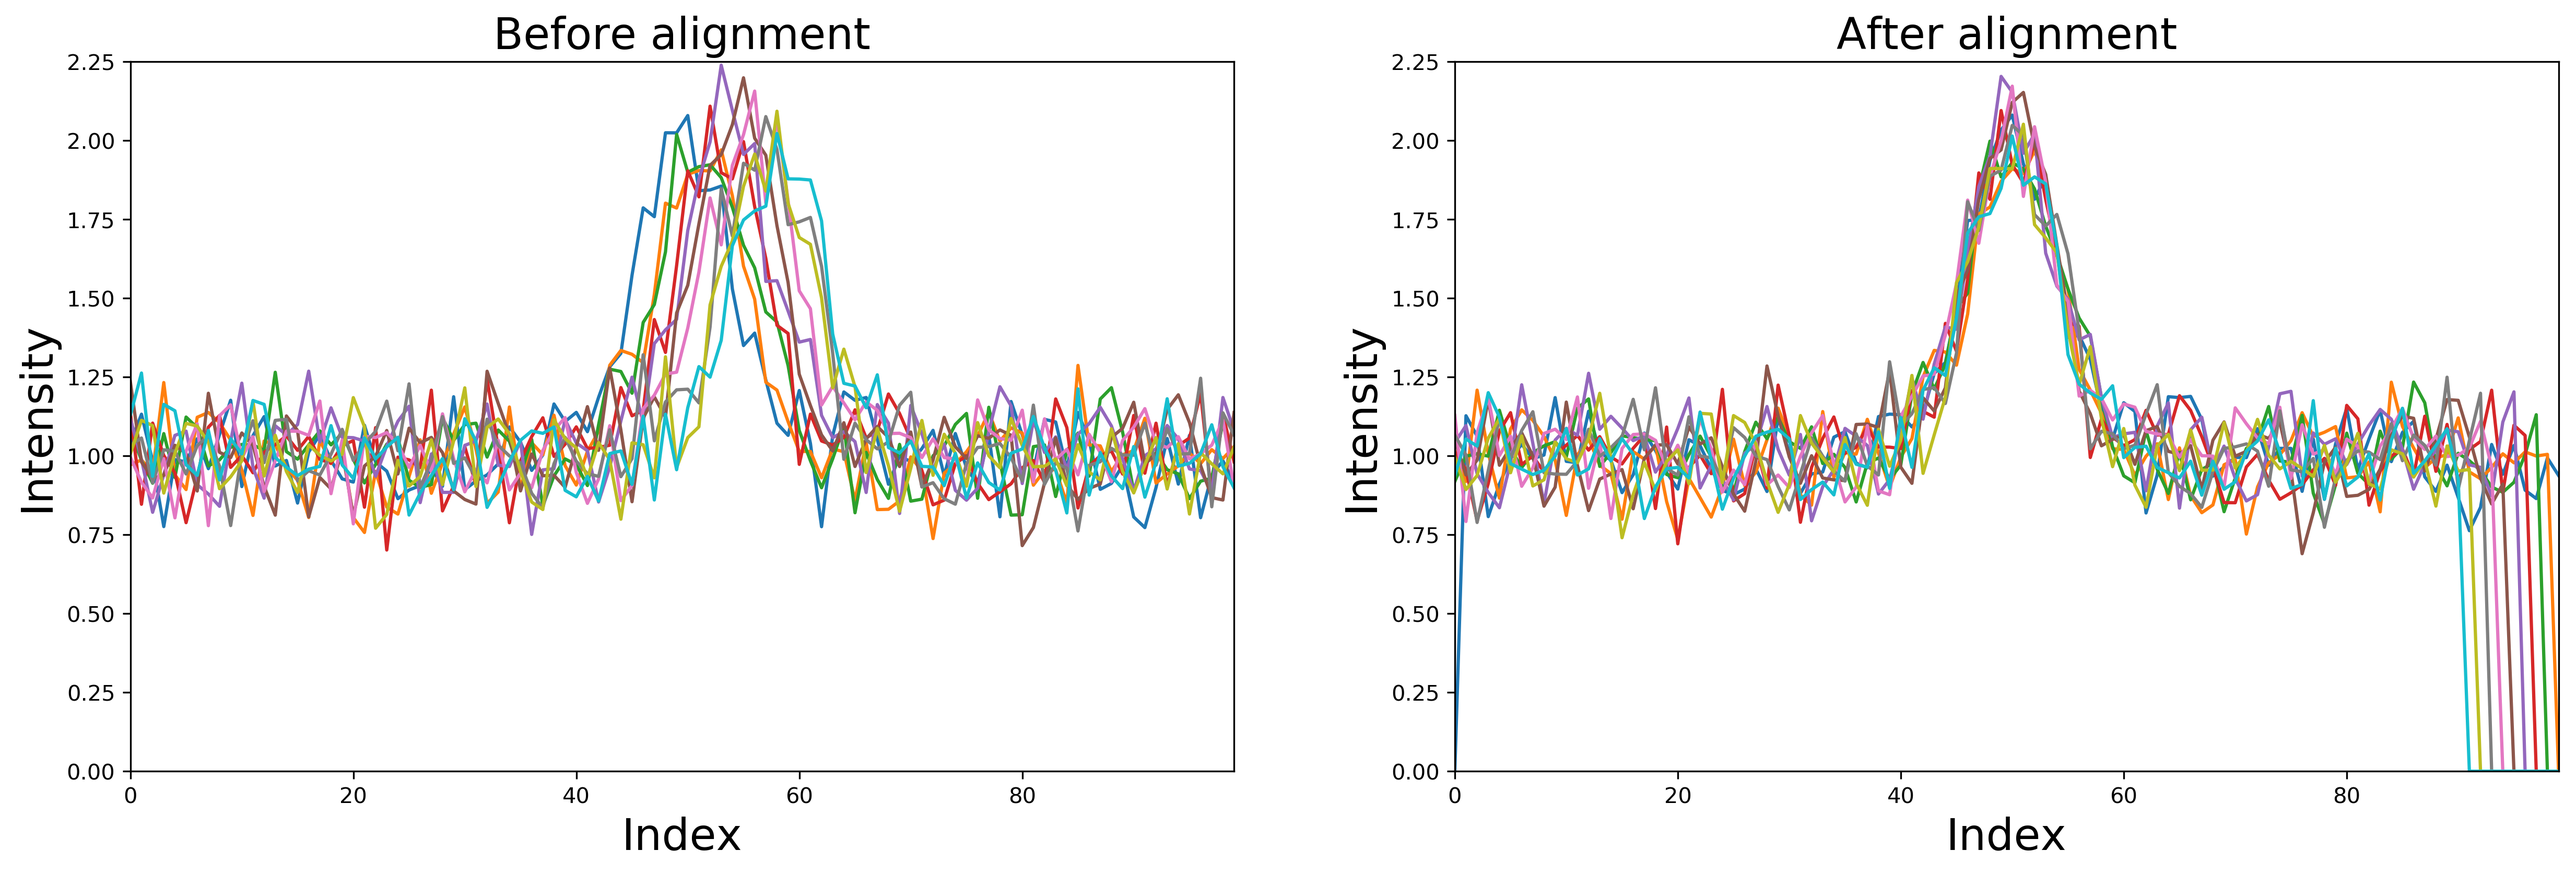
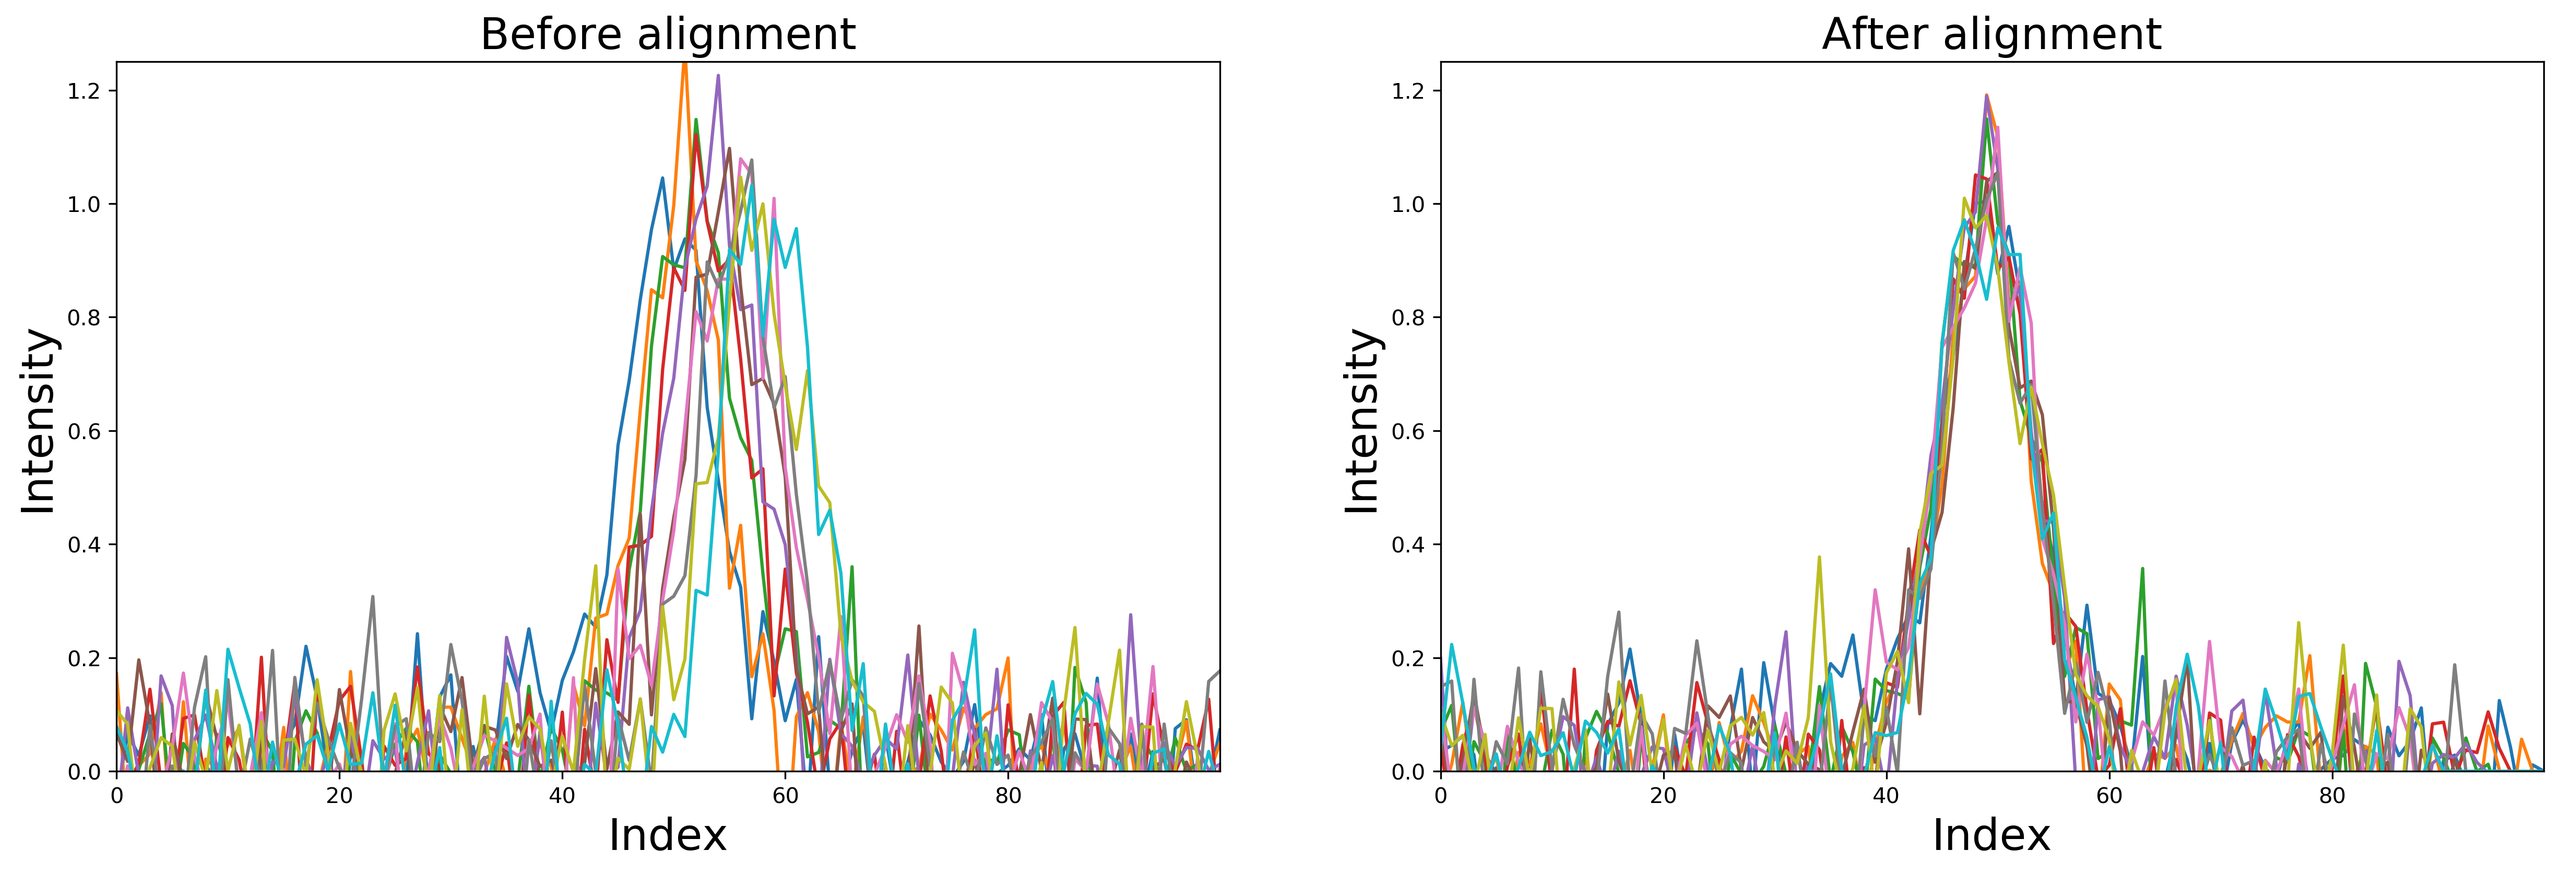
Improved example
- improved example
- improved images

diff --git a/site-source/main/usage.md b/site-source/main/usage.md
@@ -26,16 +26,14 @@ xvals = np.arange(n_points)
 
 # the first signal is 'real' and we should align to that
 synthetic_signal = np.zeros((n_signals, n_points))
-synthetic_signal[0] = signal.gaussian(n_points, std=4) + np.random.normal(1, noise, n_points)
+synthetic_signal[0] = signal.gaussian(n_points, std=4) + np.random.normal(0, noise, n_points)
 
 # determine the major peak by which msalign should align
 alignment_peak = synthetic_signal[0].argmax()
 
 # apply shift pattern
 for i in range(1, n_signals):
-    synthetic_signal[i] = shift(
-        signal.gaussian(n_points, std=4), shifts[i - 1])
-        + np.random.normal(1, noise, n_points)
+    synthetic_signal[i] = shift(signal.gaussian(n_points, std=4), shifts[i - 1]) + np.random.normal(0, noise, n_points)
 
 # plot signals that have not yet been aligned
 plt.figure()
@@ -93,7 +91,7 @@ kwargs = dict(
 zvals_new = msalign(xvals, zvals, peaks, **kwargs)
 ```
 
-<iframe
+<iframe  
     width="825"
     frameborder="0"
     height="850"
